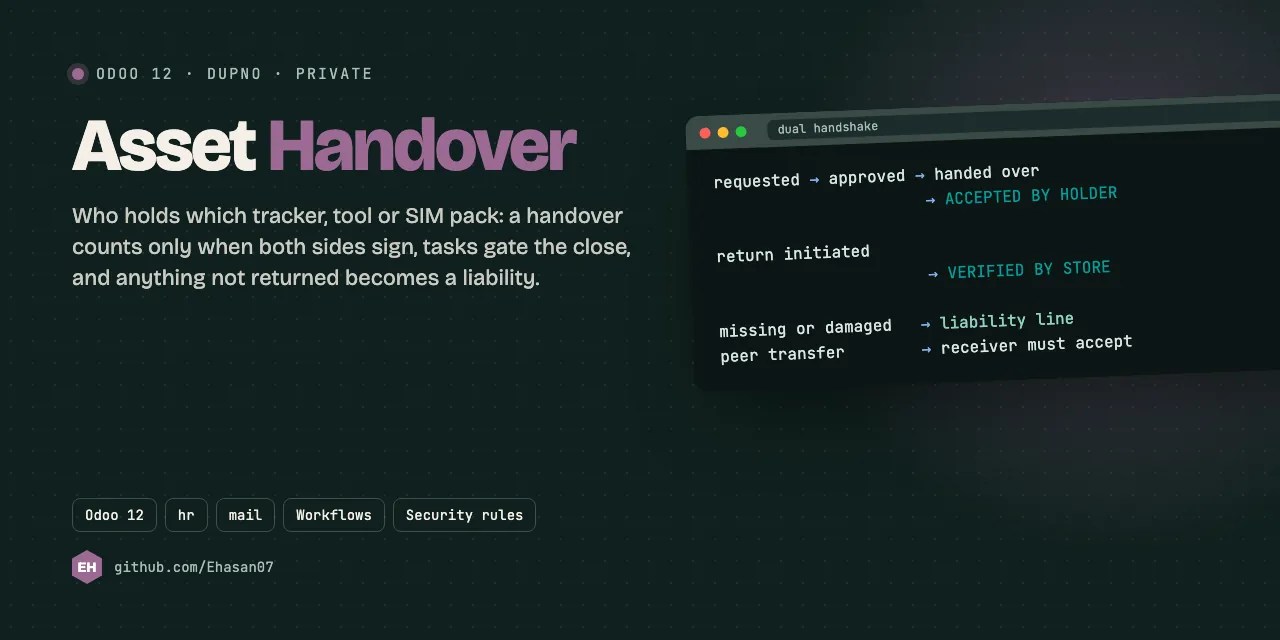
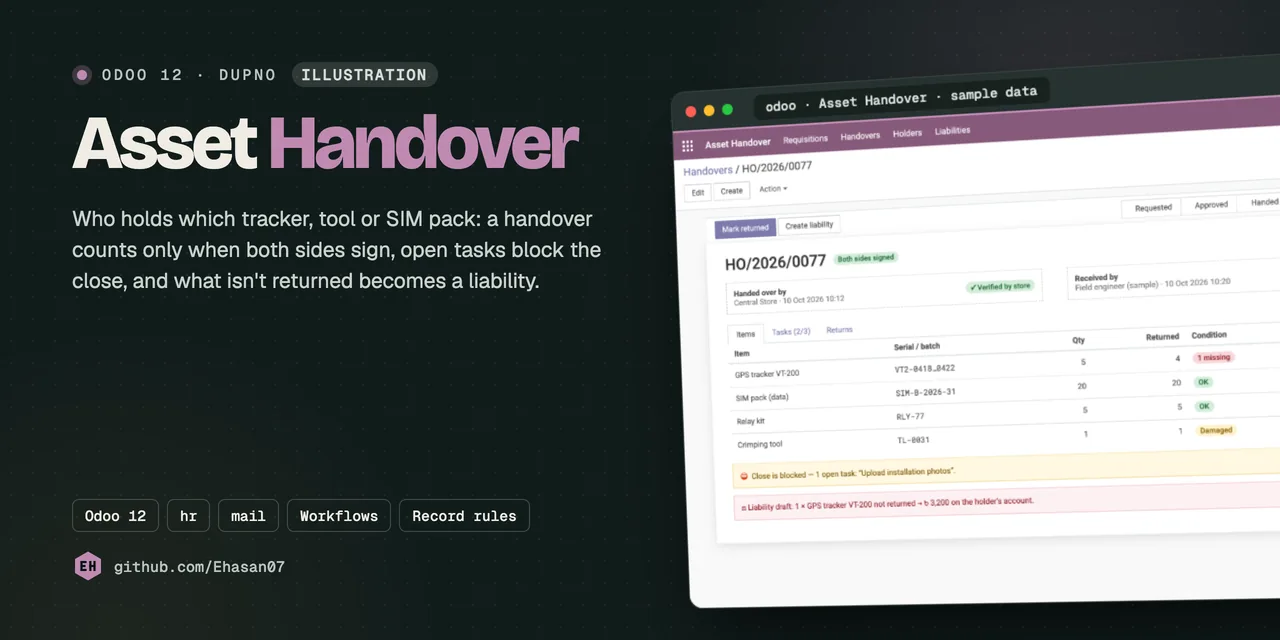
feat: refresh project images and present every project properly
- Trade ERP is now shown as a live product (trade.takatracker.com):
  new cover from the live site, updated highlights and a gallery of its
  landing sections and mobile view
- Odoo modules get clear illustration covers rebuilt with sample data and
  labelled as such; the blurred captures of the real modules stay in each
  case study
- Real screenshots for Cursor Trails, Retro Forum and P-Paribahan, which
  had none, and four more learning projects: Hockey Club, AMA Travel,
  Figma to HTML and the first portfolio
- Live landing and mobile screenshots added to the Hajj Tracking,
  Taka Tracker and MY-Card case studies
- Project tiles and the command palette open the case-study gallery;
  product cards show a wide screenshot plus a phone-sized tile

diff --git a/src/data/projects.js b/src/data/projects.js
@@ -11,7 +11,7 @@ export const products = [
     year: 2026,
     status: "live",
     image: "/work/hajj-tracking-software.webp",
-    gallery: ["/work/hajj-tracking-software.webp"],
+    gallery: ["/work/hajj-tracking-software.webp", "/work/gallery/hajj-desktop.webp", "/work/gallery/hajj-mobile.webp"],
     tagline: "হজ ও ওমরা এজেন্সির পূর্ণ সফটওয়্যার",
     summary: {
       en: "SaaS for Hajj & Umrah agencies in Bangladesh: pilgrims, QR-verified money receipts, daily-to-yearly statements, payroll, hotel rooming and four side shops — in Bangla and English, BDT and SAR.",
@@ -34,7 +34,7 @@ export const products = [
     year: 2026,
     status: "live",
     image: "/work/takatracker.webp",
-    gallery: ["/work/takatracker.webp"],
+    gallery: ["/work/takatracker.webp", "/work/gallery/taka-desktop.webp", "/work/gallery/taka-mobile.webp"],
     tagline: "আপনার টাকা কোথায় যায়, শেষ পয়সাটা পর্যন্ত",
     summary: {
       en: "Offline-first, double-entry personal accounting for Bangladesh, in Bangla and English. Write down spending with no connection — it syncs when you're back online.",
@@ -53,26 +53,37 @@ export const products = [
   {
     id: "trade-erp",
     title: "Trade ERP",
-    kicker: { en: "ERP · Client work", bn: "ERP · ক্লায়েন্টের কাজ" },
+    kicker: { en: "Trader accounting · SaaS", bn: "ব্যবসায়ীদের হিসাব · SaaS" },
     year: 2026,
-    status: "private",
+    status: "live",
     image: "/work/erp.webp",
-    gallery: ["/work/erp.webp", "/work/erp-stock.webp", "/work/erp-trial-balance.webp"],
-    tagline: "রড, সিমেন্ট, বালু, রং — সব হিসাব এক জায়গায়",
+    gallery: [
+      "/work/erp.webp",
+      "/work/gallery/trade-desktop.webp",
+      "/work/gallery/trade-industries.webp",
+      "/work/gallery/trade-landed.webp",
+      "/work/gallery/trade-loose.webp",
+      "/work/gallery/trade-flow.webp",
+      "/work/gallery/trade-features.webp",
+      "/work/gallery/trade-mobile.webp",
+      "/work/gallery/erp-stock.webp",
+      "/work/gallery/erp-trial-balance.webp",
+    ],
+    tagline: "রড, সিমেন্ট, বালু, রং — সব হিসাব এক অ্যাপে",
     summary: {
-      en: "Accounting, stock and VAT for Bangladesh's rod, cement, sand, paint, Thai aluminium and glass traders. Bangla first, double-entry, and it works on a phone.",
-      bn: "রড, সিমেন্ট, বালু, রং, থাই অ্যালুমিনিয়াম ও গ্লাস ব্যবসায়ীদের জন্য হিসাব, স্টক ও ভ্যাট। বাংলা-প্রথম, ডাবল-এন্ট্রি, ফোনেই চলে।",
+      en: "Books for Bangladesh's rod, cement, sand, paint, Thai aluminium and glass traders — who owes what, what's in the godown and what the month earned, in Bengali, on a phone. Free for the first six months.",
+      bn: "রড, সিমেন্ট, বালু, রং, থাই অ্যালুমিনিয়াম ও কাচের ব্যবসায়ীদের হিসাব — কে কত বাকি, গুদামে কী আছে, এই মাসে কত লাভ — বাংলায়, ফোনেই। প্রথম ছয় মাস ফ্রি।",
     },
     highlights: [
-      { en: "Stock counted in each trade's own units — bags, KG, CFT — with low-stock alerts", bn: "প্রতিটি পণ্যের নিজস্ব এককে স্টক — ব্যাগ, কেজি, সিএফটি — কম স্টকে সতর্কতা" },
-      { en: "Sales, purchases, parties, warehouses and stock transfers", bn: "বিক্রয়, ক্রয়, পার্টি, গুদাম আর স্টক ট্রান্সফার" },
-      { en: "Double-entry ledger with a live trial balance and VAT reports", bn: "ডাবল-এন্ট্রি লেজার, লাইভ ট্রায়াল ব্যালেন্স ও ভ্যাট রিপোর্ট" },
-      { en: "Built mobile-first for the shop counter", bn: "দোকানের কাউন্টারের কথা ভেবে মোবাইল-ফার্স্ট" },
+      { en: "Stock in each trade's own units — buy by the ton, sell by the kilo, sell loose out of a bag or tin and stock stays exact", bn: "প্রতিটি ব্যবসার নিজস্ব এককে স্টক — টনে কিনে কেজিতে বিক্রি, বস্তা বা টিন খুলে খুচরা বিক্রিতেও স্টক নিখুঁত" },
+      { en: "Truck fare and labour go into landed cost at moving-average, so profit is real", bn: "ট্রাক ভাড়া ও লেবার খরচ পণ্যের দামে যোগ হয় (মুভিং-অ্যাভারেজ), তাই লাভের হিসাব সঠিক" },
+      { en: "Bangladesh VAT built in — Mushak 6.1–6.7 registers, VDS and BIN-printed tax invoices", bn: "বাংলাদেশের ভ্যাট বিল্ট-ইন — মূসক ৬.১–৬.৭ রেজিস্টার, VDS ও BIN-সহ ট্যাক্স ইনভয়েস" },
+      { en: "One bill posts everything: double entry, 20+ reports, cash, bank, bKash and Nagad, unlimited users with an audit log", bn: "একটি বিলেই সব পোস্ট: ডাবল-এন্ট্রি, ২০+ রিপোর্ট, ক্যাশ, ব্যাংক, বিকাশ ও নগদ, অসীম ইউজার ও অডিট লগ" },
     ],
     stack: ["Next.js", "Prisma", "PostgreSQL", "TypeScript", "Tailwind CSS", "PWA"],
-    live: null,
+    live: "https://trade.takatracker.com",
     code: null,
-    note: { en: "Private client work — client name hidden", bn: "প্রাইভেট ক্লায়েন্টের কাজ — ক্লায়েন্টের নাম গোপন" },
+    note: { en: "Source private", bn: "সোর্স কোড প্রাইভেট" },
   },
   {
     id: "mycard",
@@ -81,7 +92,7 @@ export const products = [
     year: 2025,
     status: "live",
     image: "/work/mycard.webp",
-    gallery: ["/work/mycard.webp"],
+    gallery: ["/work/mycard.webp", "/work/gallery/mycard-desktop.webp", "/work/gallery/mycard-mobile.webp"],
     tagline: "The last business card you'll ever print.",
     summary: {
       en: "Digital business cards for Bangladesh: a live card builder, QR and wallet passes, bKash and SSLCommerz payments and analytics — built end-to-end, from concept to production.",
@@ -105,7 +116,7 @@ export const odooModules = [
     id: "fleet",
     title: "VTS Fleet 2.0",
     image: "/work/odoo-fleet.webp",
-    gallery: ["/work/odoo-fleet.webp", "/work/odoo-fleet-collection.webp"],
+    gallery: ["/work/odoo-fleet.webp", "/work/gallery/odoo-fleet-screen.webp", "/work/gallery/odoo-fleet-capture.webp", "/work/gallery/odoo-fleet-collection.webp"],
     summary: {
       en: "A 19,000-row Google Sheet turned into a real register: every edit goes through approval, keeps an audit trail and is written back to its exact cell.",
       bn: "১৯,০০০ সারির একটি Google Sheet-কে আসল রেজিস্টারে রূপ দেওয়া: প্রতিটি পরিবর্তন অনুমোদনের মধ্য দিয়ে যায়, অডিট ট্রেইল থাকে, আর ঠিক সেই সেলেই ফিরে লেখা হয়।",
@@ -116,6 +127,7 @@ export const odooModules = [
     id: "recharge",
     title: "Mobile Recharge",
     image: "/work/odoo-recharge.webp",
+    gallery: ["/work/odoo-recharge.webp", "/work/gallery/odoo-recharge-screen.webp", "/work/gallery/odoo-recharge-capture.webp"],
     summary: {
       en: "Bulk top-ups for the SIMs inside GPS trackers: the operator is read from the number prefix, employees spend from wallets with limits, and the ledger is checked against the live balance.",
       bn: "GPS ট্র্যাকারের সিমে একসাথে টপ-আপ: নম্বরের প্রিফিক্স দেখে অপারেটর চেনে, কর্মীরা লিমিটসহ ওয়ালেট থেকে খরচ করেন, আর লেজার লাইভ ব্যালেন্সের সাথে মেলানো হয়।",
@@ -126,6 +138,7 @@ export const odooModules = [
     id: "voice",
     title: "Voice SMS in Bengali",
     image: "/work/odoo-voice.webp",
+    gallery: ["/work/odoo-voice.webp", "/work/gallery/odoo-voice-screen.webp"],
     summary: {
       en: "A renewal reminder as a phone call: one rendered audio file per customer, uploaded to the voice server, dialled, then matched against the carrier's call records.",
       bn: "রিনিউয়াল রিমাইন্ডার ফোন কলে: প্রতি গ্রাহকের জন্য আলাদা অডিও তৈরি, ভয়েস সার্ভারে আপলোড, ডায়াল, তারপর ক্যারিয়ারের কল রেকর্ডের সাথে মিলিয়ে দেখা।",
@@ -136,6 +149,7 @@ export const odooModules = [
     id: "certificate",
     title: "GPS Certificate",
     image: "/work/odoo-certificate.webp",
+    gallery: ["/work/odoo-certificate.webp", "/work/gallery/odoo-certificate-screen.webp"],
     summary: {
       en: "The BRTA / BTRC vehicle-tracking certificate: type the IMEI and the rest fills itself; a Bengali PDF with a QR code that checks the live status.",
       bn: "BRTA / BTRC ভেহিকল ট্র্যাকিং সার্টিফিকেট: IMEI লিখলেই বাকিটা নিজে পূরণ হয়; বাংলা PDF, যার QR কোড লাইভ স্ট্যাটাস যাচাই করে।",
@@ -146,6 +160,7 @@ export const odooModules = [
     id: "assets",
     title: "Asset Handover",
     image: "/work/odoo-assets.webp",
+    gallery: ["/work/odoo-assets.webp", "/work/gallery/odoo-assets-screen.webp"],
     summary: {
       en: "Who holds which tracker, tool or SIM pack: a handover counts only when both sides sign, open tasks block the close, and what isn't returned becomes a liability.",
       bn: "কার কাছে কোন ট্র্যাকার, টুল বা সিম প্যাক: দুই পক্ষ সই করলেই হস্তান্তর গণ্য, খোলা টাস্ক থাকলে বন্ধ করা যায় না, আর ফেরত না এলে তা দায় হিসেবে ধরা হয়।",
@@ -156,6 +171,7 @@ export const odooModules = [
     id: "desk",
     title: "Call Support Desk",
     image: "/work/odoo-desk.webp",
+    gallery: ["/work/odoo-desk.webp", "/work/gallery/odoo-desk-screen.webp", "/work/gallery/odoo-desk-capture.webp"],
     summary: {
       en: "An editable mirror of the PBX call records for call-centre agents, with problem tags and vehicle links — written so it can never make the PBX lose a call.",
       bn: "কল-সেন্টার এজেন্টদের জন্য PBX কল রেকর্ডের সম্পাদনযোগ্য মিরর — সমস্যার ট্যাগ আর গাড়ির লিংকসহ, এমনভাবে লেখা যে PBX কখনো কল হারায় না।",
@@ -286,8 +302,8 @@ export const moreProjects = [
     id: "cursor-trails",
     title: "Cursor Trails",
     category: "creative",
-    image: null,
-    summary: { en: "Glowing cursor trail over a changing background pattern.", bn: "বদলাতে থাকা ব্যাকগ্রাউন্ডের উপর জ্বলজ্বলে কার্সার ট্রেইল।" },
+    image: "/work/cursor-trails.webp",
+    summary: { en: "A glowing particle trail follows the cursor over a background pattern that keeps changing.", bn: "বদলাতে থাকা ব্যাকগ্রাউন্ডের উপর কার্সারের পেছনে জ্বলজ্বলে কণার ট্রেইল।" },
     stack: ["Canvas", "JavaScript"],
     code: `${GH}/interesting-cursor-hover`,
   },
@@ -295,18 +311,66 @@ export const moreProjects = [
     id: "retro-forum",
     title: "Retro Forum",
     category: "learning",
-    image: null,
-    summary: { en: "Posts from a REST API with category search, latest posts and mark-as-read.", bn: "REST API থেকে পোস্ট — ক্যাটাগরি সার্চ, সর্বশেষ পোস্ট ও মার্ক-অ্যাজ-রিড।" },
-    stack: ["JavaScript", "Fetch API", "Tailwind CSS"],
+    image: "/work/retro-forum.webp",
+    gallery: ["/work/retro-forum.webp", "/work/gallery/retro-forum-hero.webp"],
+    summary: {
+      en: "Posts from a REST API with category search, latest posts and mark-as-read. The course API is offline now, so the screenshots use sample posts.",
+      bn: "REST API থেকে পোস্ট — ক্যাটাগরি সার্চ, সর্বশেষ পোস্ট ও মার্ক-অ্যাজ-রিড। কোর্সের API এখন বন্ধ, তাই স্ক্রিনশটে নমুনা পোস্ট।",
+    },
+    stack: ["JavaScript", "Fetch API", "Tailwind CSS", "DaisyUI"],
     code: `${GH}/6th-assignment`,
   },
   {
     id: "p-paribahan",
     title: "P-Paribahan",
     category: "learning",
-    image: null,
-    summary: { en: "Bus-ticket booking page: seat selection, coupon codes and a live fare.", bn: "বাসের টিকিট বুকিং: সিট বাছাই, কুপন কোড ও লাইভ ভাড়া।" },
-    stack: ["JavaScript", "Tailwind CSS"],
+    image: "/work/p-paribahan.webp",
+    gallery: ["/work/p-paribahan.webp", "/work/gallery/p-paribahan-offers.webp", "/work/gallery/p-paribahan-seats.webp"],
+    summary: {
+      en: "Bus-ticket booking page for a coach service: coupon offers, route details, a seat map and the passenger form.",
+      bn: "একটি কোচ সার্ভিসের টিকিট বুকিং পেজ: কুপন অফার, রুটের তথ্য, সিট ম্যাপ ও যাত্রীর ফর্ম।",
+    },
+    stack: ["HTML", "Tailwind CSS"],
     code: `${GH}/5th-assignment`,
+  },
+  {
+    id: "hockey-club",
+    title: "Hockey Club",
+    category: "learning",
+    image: "/work/hockey-club.webp",
+    gallery: ["/work/hockey-club.webp", "/work/gallery/hockey-more.webp"],
+    summary: { en: "Responsive landing page for a hockey club: hero slider, facilities and training programs.", bn: "একটি হকি ক্লাবের রেসপন্সিভ ল্যান্ডিং পেজ: হিরো স্লাইডার, সুবিধা ও ট্রেনিং প্রোগ্রাম।" },
+    stack: ["HTML", "Tailwind CSS"],
+    code: `${GH}/3rd-assignment`,
+  },
+  {
+    id: "ama-travel",
+    title: "AMA Travel",
+    category: "learning",
+    image: "/work/ama-travel.webp",
+    gallery: ["/work/ama-travel.webp", "/work/gallery/ama-travel-more.webp"],
+    summary: { en: "Travel agency landing page in plain HTML and CSS: trip search, popular tours and destinations.", bn: "সাধারণ HTML ও CSS-এ ট্রাভেল এজেন্সির ল্যান্ডিং পেজ: ট্রিপ সার্চ, জনপ্রিয় ট্যুর ও গন্তব্য।" },
+    stack: ["HTML", "CSS"],
+    code: `${GH}/2nd-assignment-`,
+  },
+  {
+    id: "figma-to-html",
+    title: "Figma to HTML",
+    category: "learning",
+    image: "/work/figma-to-html.webp",
+    gallery: ["/work/figma-to-html.webp", "/work/gallery/figma-assignment-more.webp"],
+    summary: { en: "My first assignment: a New Year party page rebuilt from its Figma design in HTML and CSS.", bn: "আমার প্রথম অ্যাসাইনমেন্ট: Figma ডিজাইন থেকে HTML ও CSS-এ বানানো নিউ ইয়ার পার্টির পেজ।" },
+    stack: ["HTML", "CSS"],
+    code: `${GH}/My-frist-assignment`,
+  },
+  {
+    id: "first-portfolio",
+    title: "First Portfolio",
+    category: "learning",
+    image: "/work/first-portfolio.webp",
+    gallery: ["/work/first-portfolio.webp", "/work/gallery/first-portfolio-more.webp"],
+    summary: { en: "The first portfolio page I wrote by hand — about me, what I do and contact, in HTML and CSS.", bn: "হাতে লেখা আমার প্রথম পোর্টফোলিও পেজ — আমার পরিচয়, কাজ ও যোগাযোগ, HTML ও CSS-এ।" },
+    stack: ["HTML", "CSS"],
+    code: `${GH}/web-developer-portfolio`,
   },
 ];

diff --git a/src/sections/Work.jsx b/src/sections/Work.jsx
@@ -86,28 +86,28 @@ function OdooModules() {
 
 function ProjectTile({ project }) {
   const { t, tr } = useSettings();
+  const { openProject } = useUI();
+  const shots = project.gallery?.length ?? 1;
   return (
     <SpotlightCard className="group flex h-full flex-col overflow-hidden p-0">
-      <a href={project.live ?? project.code} target="_blank" rel="noreferrer" className="relative block overflow-hidden border-b border-line/10" tabIndex={-1}>
-        {project.image ? (
-          <img
-            src={project.image}
-            alt={`${project.title} — preview`}
-            loading="lazy"
-            width="1280"
-            height="640"
-            className="aspect-[2/1] w-full object-cover transition-transform duration-700 group-hover:scale-105"
-          />
-        ) : (
-          <div className="dot-grid relative grid aspect-[2/1] place-items-center bg-surface">
-            <div
-              className="absolute inset-0"
-              style={{ background: "radial-gradient(circle at 30% 30%, rgb(var(--primary) / 0.25), transparent 55%), radial-gradient(circle at 75% 70%, rgb(var(--accent) / 0.18), transparent 50%)" }}
-            />
-            <span className="relative font-display text-2xl font-semibold">{project.title}</span>
-          </div>
-        )}
-      </a>
+      <button
+        onClick={() => openProject(project)}
+        className="relative block overflow-hidden border-b border-line/10 text-left"
+        aria-label={`${t.work.caseStudy}: ${project.title}`}
+      >
+        <img
+          src={project.image}
+          alt={`${project.title} — preview`}
+          loading="lazy"
+          width="1280"
+          height="640"
+          className="aspect-[2/1] w-full object-cover transition-transform duration-700 group-hover:scale-105"
+        />
+        <span className="absolute right-3 top-3 flex items-center gap-1.5 rounded-full bg-black/55 px-2.5 py-1 text-xs text-white opacity-0 backdrop-blur transition-opacity group-hover:opacity-100">
+          <Maximize2 className="h-3.5 w-3.5" />
+          {shots > 1 ? shots : t.work.openImage}
+        </span>
+      </button>
       <div className="flex flex-1 flex-col p-5">
         <h4 className="font-display text-base font-semibold">{project.title}</h4>
         <p className="mt-1.5 line-clamp-2 text-sm leading-relaxed text-muted">{tr(project.summary)}</p>

diff --git a/src/components/work/ProductCard.jsx b/src/components/work/ProductCard.jsx
@@ -15,6 +15,10 @@ const host = (url) => url.replace(/^https?:\/\//, "").replace(/\/$/, "");
 export default function ProductCard({ project, index, total, progress, stack }) {
   const { t, tr, lang } = useSettings();
   const { openProject } = useUI();
+  // Under the cover: up to two wide screenshots, plus a phone-shaped tile for a mobile one.
+  const extras = project.gallery.slice(1);
+  const phone = extras.find((src) => src.includes("-mobile"));
+  const wide = extras.filter((src) => src !== phone).slice(0, phone ? 1 : 2);
   const scale = useTransform(progress, [index / total, 1], [1, stack ? 1 - (total - index - 1) * 0.045 : 1]);
 
   return (
@@ -104,17 +108,25 @@ export default function ProductCard({ project, index, total, progress, stack }) 
                 </div>
               </div>
             </BrowserFrame>
-            {project.gallery.length > 1 && (
-              <div className="mt-3 grid grid-cols-2 gap-3">
-                {project.gallery.slice(1, 3).map((src) => (
+            {(wide.length > 0 || phone) && (
+              <div className="mt-3 flex h-28 gap-3 sm:h-32">
+                {wide.map((src) => (
                   <img
                     key={src}
                     src={src}
                     alt=""
                     loading="lazy"
-                    className="aspect-[16/10] w-full rounded-xl border border-line/10 object-cover object-top"
+                    className="h-full min-w-0 flex-1 rounded-xl border border-line/10 object-cover object-top"
                   />
                 ))}
+                {phone && (
+                  <img
+                    src={phone}
+                    alt=""
+                    loading="lazy"
+                    className="h-full w-16 shrink-0 rounded-xl border border-line/10 object-cover object-top sm:w-[4.5rem]"
+                  />
+                )}
               </div>
             )}
           </button>

diff --git a/src/i18n/strings.js b/src/i18n/strings.js
@@ -53,7 +53,7 @@ export const strings = {
       stack: "Stack",
       odooEyebrow: "Odoo 12 · DUPNO",
       odooTitle: "Odoo modules running DUPNO's vehicle-tracking operations",
-      odooNote: "Company work, so the source is private. Screens are from the modules themselves; customer data is blurred.",
+      odooNote: "Company work, so the source and the live system are private. Covers are illustrations rebuilt with sample data; blurred captures of the real modules are inside each case study where available.",
       moreEyebrow: "More projects",
       moreTitle: "Client pages, apps and experiments",
       viewGithub: "All repositories on GitHub",
@@ -196,7 +196,7 @@ export const strings = {
       stack: "স্ট্যাক",
       odooEyebrow: "Odoo 12 · DUPNO",
       odooTitle: "DUPNO-এর ভেহিকল-ট্র্যাকিং অপারেশন চালানো Odoo মডিউল",
-      odooNote: "কোম্পানির কাজ, তাই সোর্স প্রাইভেট। স্ক্রিনগুলো মডিউল থেকেই নেওয়া; গ্রাহকের তথ্য ঝাপসা করা।",
+      odooNote: "কোম্পানির কাজ, তাই সোর্স ও লাইভ সিস্টেম প্রাইভেট। কভারগুলো নমুনা তথ্য দিয়ে বানানো ইলাস্ট্রেশন; যেখানে আছে, আসল মডিউলের ঝাপসা করা স্ক্রিন বিস্তারিত অংশে দেওয়া।",
       moreEyebrow: "আরও প্রজেক্ট",
       moreTitle: "ক্লায়েন্ট পেজ, অ্যাপ ও এক্সপেরিমেন্ট",
       viewGithub: "গিটহাবে সব রিপোজিটরি",

diff --git a/src/components/work/ProjectModal.jsx b/src/components/work/ProjectModal.jsx
@@ -8,6 +8,7 @@ import { useSettings } from "../../context/SettingsContext";
 import { useUI } from "../../context/UIContext";
 import { lockScroll, unlockScroll } from "../../lib/scroll";
 import { localDigits } from "../../lib/digits";
+import { projectFilters } from "../../data/projects";
 
 // Case study for a product or Odoo module: gallery, summary, highlights, stack, links.
 function ModalBody({ project, onClose }) {
@@ -79,6 +80,9 @@ function ModalBody({ project, onClose }) {
               <span className="eyebrow text-odoo">Odoo 12 · DUPNO</span>
             ) : (
               project.kicker && <span className="eyebrow">{tr(project.kicker)} · {localDigits(project.year, lang)}</span>
+            )}
+            {project.category && (
+              <span className="eyebrow">{tr(projectFilters.find((f) => f.id === project.category)?.label)}</span>
             )}
             {project.status && <StatusBadge status={project.status} />}
           </div>

diff --git a/src/components/CommandPalette.jsx b/src/components/CommandPalette.jsx
@@ -17,7 +17,7 @@ import SocialIcon from "./ui/SocialIcon";
 import { useSettings } from "../context/SettingsContext";
 import { useUI } from "../context/UIContext";
 import { NAV_SECTIONS } from "../data/nav";
-import { moreProjects, odooModules, products } from "../data/projects";
+import { moreProjects, odooModules, products, projectFilters } from "../data/projects";
 import { profile, socials } from "../data/profile";
 import { lockScroll, scrollToId, unlockScroll } from "../lib/scroll";
 
@@ -63,9 +63,9 @@ function PaletteDialog({ close }) {
           ...moreProjects.map((m) => ({
             id: `m-${m.id}`,
             label: m.title,
-            hint: "GitHub ↗",
+            hint: tr(projectFilters.find((f) => f.id === m.category)?.label),
             icon: FolderGit2,
-            run: () => window.open(m.live ?? m.code, "_blank", "noopener"),
+            run: () => ui.openProject(m),
           })),
         ],
       },
